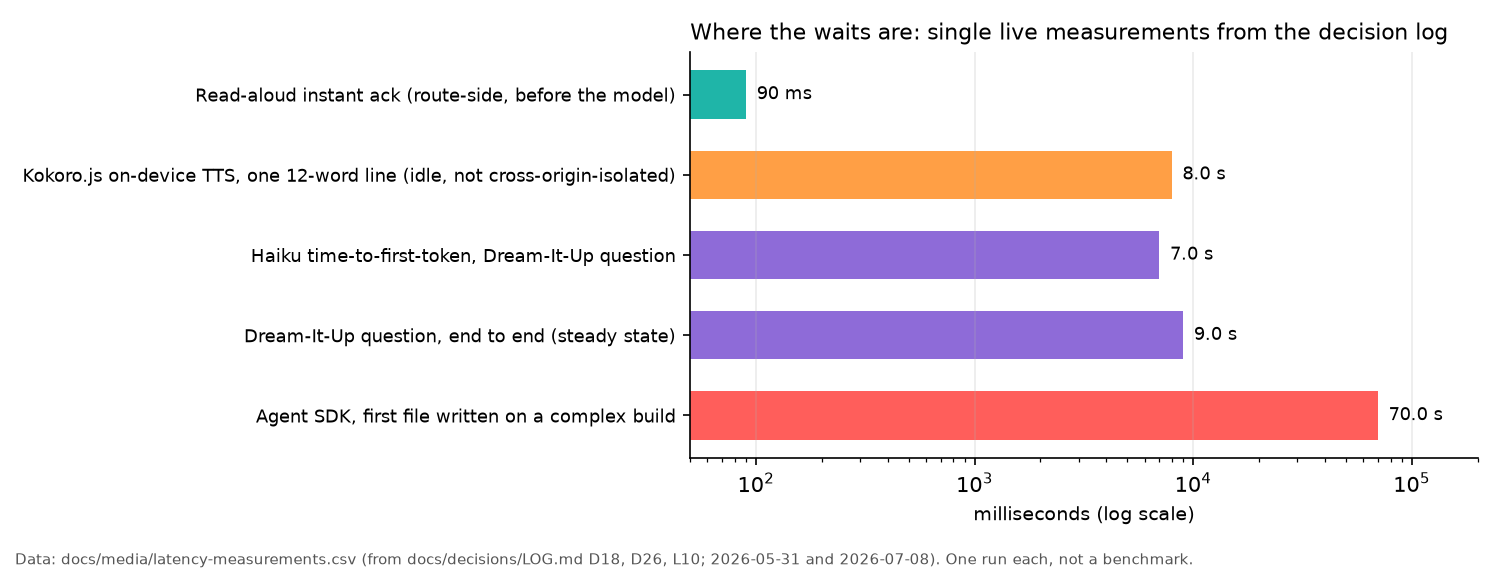
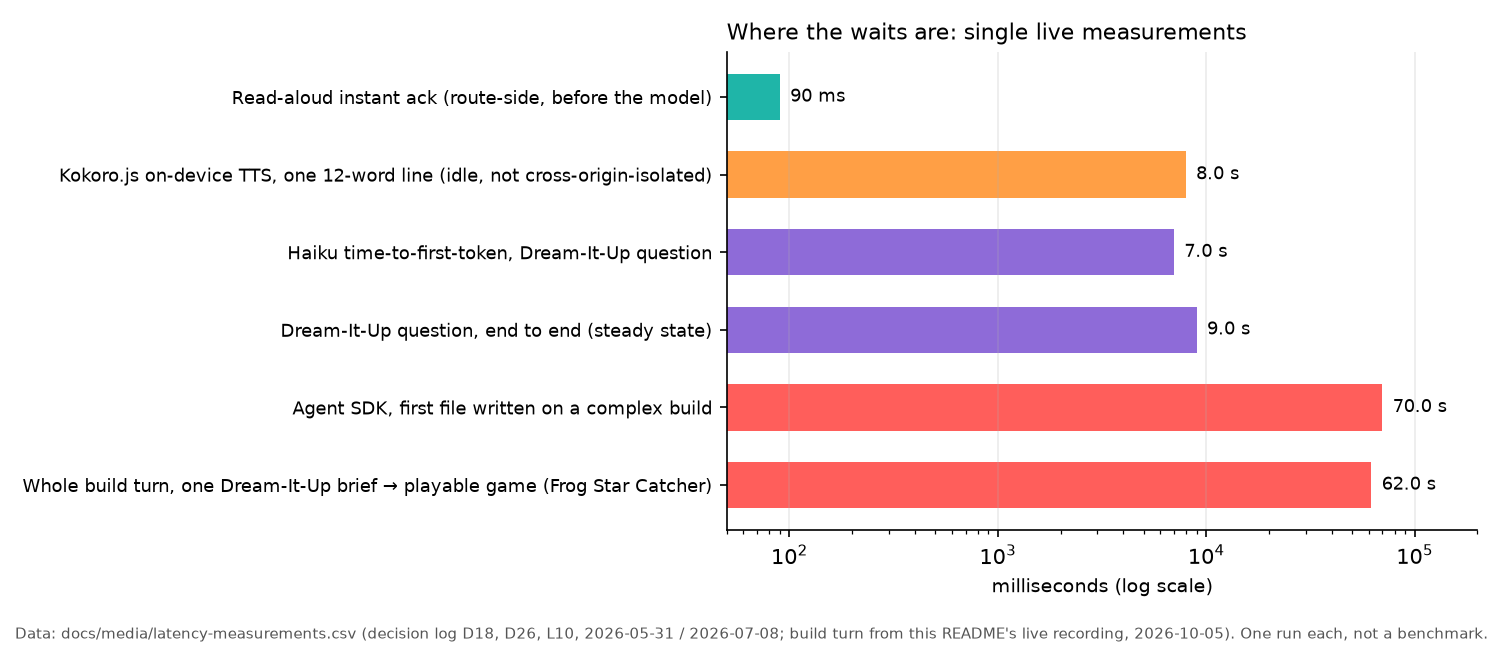
README: live build GIF as hero, recorded on the author's local dev setup

Changed region(s): [[0.0, 0.0298, 0.9813, 0.9246], [0.2453, 0.9544, 0.9813, 1.0], [0.0307, 0.9544, 0.2147, 0.9842]]

diff --git a/README.md b/README.md
@@ -1,20 +1,23 @@
 # VibeKids
 
-![A "Ninja Cat Taco Blaster" game that Sparky built, running in the live preview](docs/media/hero-ninja-cat-taco-blaster.png)
-
-<sub>The live preview pane from a local development run on 2026-07-08. Claude wrote the game through the agent (AI-generated). The app idea came from a five-question Dream-It-Up interview that a developer answered during testing. The tour below shows the whole UI.</sub>
+<p align="center">
+  <img src="docs/media/live-build.gif" width="720" alt="Live build: the kid answers Sparky's first Dream-It-Up question with 'a game where a frog catches falling stars', taps build, Sparky narrates while the build show runs, the Frog Star Catcher game appears in the preview with confetti, and the frog catches stars">
+  <br>
+  <sub><b>A real build, recorded on the author's local dev setup (2026-10-05).</b> One Dream-It-Up answer ("a game where a frog catches falling stars"), then 🚀 build. Claude wrote Sparky's lines and the whole game (AI-generated, unedited) in 62 s; that wait is shown at 8× speed. Then the frog is played for a few seconds. Playwright drove the clicks; it ran the original pre-export code on the author's own Claude subscription, before this public copy switched the default to an API key.</sub>
+</p>
 
 **Not safe for real children: no auth, no parental consent (COPPA), no output moderation.** This is a local proof of concept; see [Status and limitations](#status-and-limitations).
 
 **VibeKids is a coding agent for children.** A kid aged about 8 to 12 types an idea, taps one, or says it out loud. Sparky, a friendly panda, builds it with Claude, and the working app shows up in a sandboxed live preview beside the chat. Tools like Lovable, Replit, Bolt and v0 already do "say it and it's built" for adults, but none of them is designed for children. VibeKids keeps that loop and adds what kids need: a 2nd-to-4th-grade reading level, read-aloud and push-to-talk, tappable choices that fill the wait while the build runs, a pre-build interview for kids who don't know what to ask for, and a safety model built into the architecture rather than added afterwards. The stack is Next.js 16, Convex (realtime) and the Claude Agent SDK, with a tool surface of seven sandboxed tools. It is a **v0, local-only proof of concept**, not a product.
 
+
+## Demo
+
 <p align="center">
   <img src="docs/media/tour.gif" width="720" alt="Tour: Sparky greets you, the Dream-It-Up door opens the interview, the My Apps shelf opens Star Counter, and two rounds are played in the live preview">
   <br>
-  <sub>The real UI running locally (2026-10-05): the empty canvas → tapping <i>Dream it up</i> (Sparky's opener and first question are deterministic, with no model call) → the <b>My Apps</b> shelf → Star Counter, an app Sparky generated earlier, played in the sandboxed preview. Playwright drives it against a local, account-free Convex backend with seeded demo data. Generating a <i>new</i> app needs a Claude credential, so a live build isn't in this recording (see the stills below).</sub>
+  <sub>The real UI running locally (2026-10-05): the empty canvas → tapping <i>Dream it up</i> (Sparky's opener and first question are deterministic, with no model call) → the <b>My Apps</b> shelf → Star Counter, an app Sparky generated earlier, played in the sandboxed preview. Playwright drives it against a local, account-free Convex backend with seeded demo data.</sub>
 </p>
-
-## Demo
 
 | | |
 |---|---|
@@ -34,7 +37,7 @@
 | ![Sparky's six moods and the mouth-sync rig](docs/media/sparky-moods.png) | ![The dev-only admin console showing the generated app's highlighted source and version history](docs/media/admin-source.png) |
 | **Sparky** is CSS/SVG with six moods (idle, thinking, building, talking, celebrate, oops), mouse parallax and a mouth synced to each word. This is the `/spike-sparky` page. | **`/admin`** is a dev-only time machine. It shows every write as an immutable, turn-stamped version, Shiki-highlighted source, a side-by-side diff, and a non-destructive whole-turn restore. |
 
-The hero, the build-now still and the build-in-progress still came from development runs with a live model on 2026-07-08. The rest were captured on 2026-10-05 with Playwright on a fresh local backend. That data was seeded with `projects:create` / `files:write` and holds the Star Counter HTML above plus empty projects. No child data is involved anywhere.
+The hero GIF is a live build on the author's local setup (2026-10-05). The build-now and build-in-progress stills came from development runs with a live model on 2026-07-08. The rest were captured on 2026-10-05 with Playwright on a fresh local backend. That data was seeded with `projects:create` / `files:write` and holds the Star Counter HTML above plus empty projects. No child data is involved anywhere.
 
 ## Architecture
 
@@ -117,9 +120,9 @@ Two design choices drive this flow, and the decision log records both:
 
 ## Measurements
 
-![Bar chart of measured waits: 90 ms instant ack, 8.0 s Kokoro TTS, 7.0 s Haiku first token, 9.0 s per interview question, 70 s to first file](docs/media/latency-chart.png)
+![Bar chart of measured waits: 90 ms instant ack, 8.0 s Kokoro TTS, 7.0 s Haiku first token, 9.0 s per interview question, 70 s to first file, 62 s for a whole build turn](docs/media/latency-chart.png)
 
-<sub>Data: [`docs/media/latency-measurements.csv`](docs/media/latency-measurements.csv), taken from the decision log entries D18, D26 and L10 (2026-05-31 and 2026-07-08). Each is a single live measurement on one Mac in local dev, not a benchmark.</sub>
+<sub>Data: [`docs/media/latency-measurements.csv`](docs/media/latency-measurements.csv), taken from the decision log entries D18, D26 and L10 (2026-05-31 and 2026-07-08), plus the whole build turn from the live recording at the top (2026-10-05). Each is a single live measurement on one Mac in local dev, not a benchmark.</sub>
 
 These numbers shaped the design. On-device Kokoro.js TTS sounded warmer but took about 8 s per line, because the page isn't cross-origin-isolated and the WASM ran single-threaded. It was reverted to Web Speech (D18, L11). The interview's model turns cost about 9 s each, so the opener, "change something" and "build now" are deterministic and need no model call (D26).
 
@@ -192,7 +195,7 @@ The full plan is in [ROADMAP.md](ROADMAP.md). For why things are the way they ar
 ## Credits and licences
 
 - Code: [MIT](LICENSE).
-- AI-generated content: Sparky's chat text and the generated apps in the screenshots and GIF (Ninja Cat Taco Blaster, Glitter Unicorn Sticker Maker, Star Counter) were produced by Anthropic's Claude models through the Claude Agent SDK.
+- AI-generated content: Sparky's chat text and the generated apps in the screenshots and GIF (Frog Star Catcher, Glitter Unicorn Sticker Maker, Star Counter) were produced by Anthropic's Claude models through the Claude Agent SDK.
 - Fonts: [Baloo 2](https://fonts.google.com/specimen/Baloo+2) and [Nunito](https://fonts.google.com/specimen/Nunito), both SIL Open Font License, self-hosted at build time through `next/font`.
 - Main dependencies: [Next.js](https://nextjs.org) (MIT), [React](https://react.dev) (MIT), [Convex](https://www.convex.dev) client (Apache-2.0), [Claude Agent SDK](https://www.npmjs.com/package/@anthropic-ai/claude-agent-sdk) (subject to Anthropic's terms), [Tailwind CSS](https://tailwindcss.com) (MIT), [Shiki](https://shiki.style) (MIT), [jsdiff](https://github.com/kpdecker/jsdiff) (BSD-3-Clause), [zod](https://zod.dev) (MIT), [Rive React runtime](https://github.com/rive-app/rive-react) (MIT), [kokoro-js](https://www.npmjs.com/package/kokoro-js) (Apache-2.0).
 - `/spike-rive` loads a public sample animation from Rive's own CDN at runtime, and `/spike-kokoro` downloads the Kokoro-82M model (Apache-2.0) at runtime. Neither asset is included in this repo.
